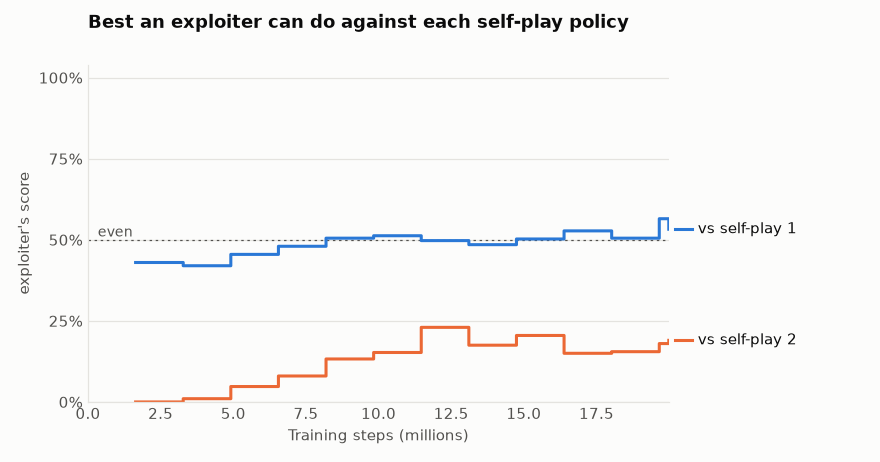
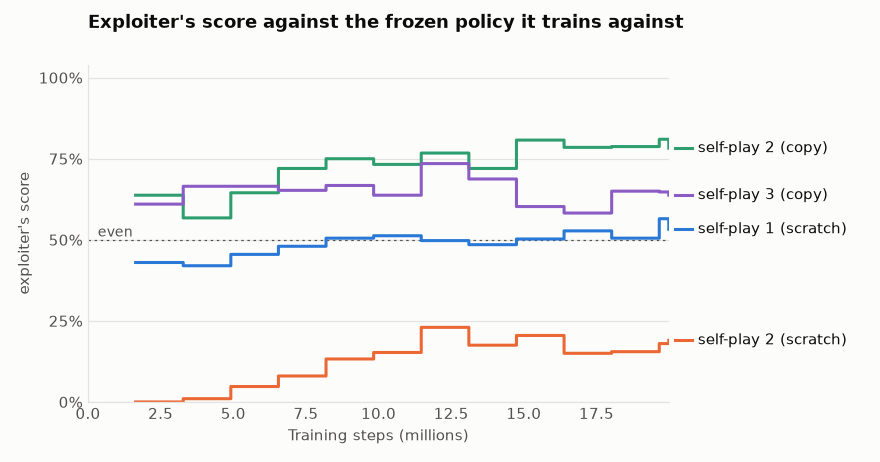
Report the second exploiter round and self-play 3

diff --git a/README.md b/README.md
@@ -134,6 +134,9 @@ gets the exploiter as an opponent, so that the weakness is trained away.
 | exploiter 1 | frozen self-play 1 only | 20M | 17 min |
 | self-play 2 | continues self-play 1 with its 123 snapshots; exploiter 1 in 20% of games, rule bot 15%, latest copy 40%, older copies 25% | 30M | 44 min |
 | exploiter 2 | frozen self-play 2 only | 20M | 16 min |
+| exploiter 3 | frozen self-play 2 only, starting from self-play 2's weights | 20M | 15 min |
+| self-play 3 | continues self-play 2 with all 215 earlier snapshots; exploiters 3 and 1 in 15% of games each, rule bot 15%, latest copy 35%, older copies 20% | 30M | 50 min |
+| exploiter 4 | frozen self-play 3 only, starting from self-play 3's weights | 20M | 15 min |
 
 Every 50 iterations the policy also plays 200 games against opponents that
 never change (the rule bot and an earlier model). The pool keeps changing, so
@@ -172,13 +175,18 @@ Elo ratings from the same league, with the rule bot pinned at 1000:
 | camper | 851 |
 | random | 458 |
 
-How far each self-play policy could be exploited (score from 200 games per
-evaluation):
+How far each self-play policy could be exploited. An exploiter trained from
+scratch spends most of its steps learning to play at all, so exploiters 3 and
+4 start from a copy of the policy they attack: they begin at about 50%, and
+anything above that is a real weakness. Final exploiters; the first two rows
+are from 200-game evaluations, the last two from 1000 games in a league:
 
-| Frozen policy | Exploiter's best score against it | At the end of training | Exploiter's score against the rule bot |
+| Frozen policy | Exploiter starts from | Exploiter's score against it | Exploiter's score against the rule bot |
 |---|---|---|---|
-| self-play 1 | 56.5% | 53.3% | 13.0% |
-| self-play 2 | 23.0% | 19.0% | 72.5% |
+| self-play 1 | scratch (exploiter 1) | 53% | 13% |
+| self-play 2 | scratch (exploiter 2) | 19% | 72.5% |
+| self-play 2 | its weights (exploiter 3) | **79%** | 99% |
+| self-play 3 | its weights (exploiter 4) | **62%** | 100% |
 
 ![Exploiter scores during training](docs/stage2_exploiters.png)
 
@@ -190,6 +198,15 @@ opponent. Self-play 2 learned to punish the trick within 1.7 million steps:
 its win rate against exploiter 1 went from 16% to 100%. Exploiter 2 found no
 such shortcut. To score at all it had to learn to fight, which made it a
 real fighter (72.5% against the rule bot), and it still never got above 23%.
+
+That looked like strong evidence, but exploiter 2 was simply too weak to
+find anything. Exploiter 3 had the same 20 million steps but started from
+self-play 2's weights, and it beat self-play 2 79% of the time. The few
+replays watched suggest how: it waits near its own spawn and shoots
+self-play 2 as it charges across the map. It was not simply a better player,
+though. Exploiter 1 scores 50% against it, and it beats the camper only 87%
+of the time, where self-play 2 manages 100% and 95%. Specialising against one
+opponent cost it what self-play 2 had learned against others, as in stage 1.
 
 ### Ablation: the exploiter, or just more training?
 
@@ -222,16 +239,49 @@ each with `rl.evaluate`), but with one run of each this could be down to
 chance in training. More seeds are needed before it can be credited to the
 exploiter. Head to head the two runs are even (53%).
 
+### A second round
+
+Self-play 3 continues self-play 2 with exploiters 3 and 1 as fixed opponents
+(see the table of runs). The test was fixed before the run: exploiter 3 at
+45% or less against self-play 3 means the weakness is gone, 55% or more means
+it is not, and anything between means it is partly fixed. Nothing else may
+get worse.
+
+| | Self-play 2 | Self-play 3 |
+|---|---|---|
+| exploiter 3 against it (league, 1000 games) | 80% | **47%** |
+| exploiter 1 against it | 0% | 0% |
+| against the rule bot (1000 games as blue) | 99.8% | 99.6% |
+| against the camper | 95.2% | 99.7% |
+| against the rusher | 80.9% | 88.0% |
+| against the kiter | 99.7% | 99.7% |
+| against the flanker | 99.3% | 100% |
+| head to head (league, 1000 games) | 41% | 59% |
+
+Exploiter 3 fell from 80% to 47%. By the rule that counts as partly fixed,
+although 47% is within noise of an even match. Nothing got worse, and the
+rusher went from 80.9% to 88.0% (as the ablation showed, the extra training
+may deserve part of that).
+
+Exploiter 4 measures self-play 3 the way exploiter 3 measured self-play 2:
+it starts from self-play 3's weights and trains for 20 million steps. It
+reached 62%, down from 79%. The rule fixed in advance was that 65% or less
+means the loop is converging, 75% or more that it is not. Like exploiter 3, it
+gave up some of the policy's breadth (exploiter 1 scores 24% against it, and
+it beats the camper 86% of the time). Two rounds are too few to call a trend,
+but the measure moved in the right direction. Self-play 3 is the strongest
+policy so far and the starting point for stage 3.
+
 ### What these numbers do not show
 
 * The test bots share the rule bot's aim, so they test different movement,
   not different players. Human play is a harder test.
 * The camper, rusher and kiter results were looked at while deciding what to
   train next, so only the flanker was truly unseen until the end.
-* An exploiter's score is a lower bound: a longer run or another method might
-  find more. Copying the target already scores 50%, so a score below 50%
-  (exploiter 2) shows that no shortcut was found, not that none exists.
-  Starting the exploiter from the target's weights would be a stricter test.
+* An exploiter's score is only a lower bound, and a weak exploiter can make a
+  policy look far safer than it is: exploiter 2, trained from scratch, scored
+  23% against self-play 2, while exploiter 3, started from its weights,
+  scored 79%. Exploiter 4's 62% is a lower bound too.
 * Every run was trained once, with one random seed, so it is unknown how much
   a second run would differ.
 * Ratings from different leagues cannot be compared. Self-play 2 rates 1505
@@ -241,20 +291,25 @@ exploiter. Head to head the two runs are even (53%).
   bot but 65% against the stage-1 policy and self-play 1. Elo squeezes this
   into one number per player, and the numbers depend on who is in the
   league.
-* The rusher is still the hardest opponent for self-play 2 (84%). Their
-  games are short (8.4 seconds on average) and self-play 2 is hit about 3
-  times per game, against 1.3 times by the rule bot.
+* The rusher is still the hardest bot. Self-play 3 beats it 88.0% of the
+  time; their games last 7.4 seconds on average and self-play 3 is hit 2.75
+  times per game, against 1.24 times by the rule bot.
 
 ```bash
 python -m rl.selfplay --name selfplay --steps 40000000 --reference runs/first/model.pt
 python -m rl.selfplay --name exploiter1 --steps 20000000 --fixed runs/selfplay/model.pt --p-fixed 1 --p-rule 0 --p-latest 0 --reference runs/selfplay/model.pt
 python -m rl.selfplay --name selfplay2 --steps 30000000 --init runs/selfplay/model.pt --seed-pool runs/selfplay/pool --fixed runs/exploiter1/model.pt --p-fixed 0.2 --p-rule 0.15 --p-latest 0.4 --reference runs/selfplay/model.pt
 python -m rl.selfplay --name exploiter2 --steps 20000000 --fixed runs/selfplay2/model.pt --p-fixed 1 --p-rule 0 --p-latest 0 --reference runs/selfplay2/model.pt
+python -m rl.selfplay --name exploiter3 --steps 20000000 --init runs/selfplay2/model.pt --fixed runs/selfplay2/model.pt --p-fixed 1 --p-rule 0 --p-latest 0 --reference runs/selfplay2/model.pt
+python -m rl.selfplay --name selfplay3 --steps 30000000 --init runs/selfplay2/model.pt --seed-pool runs/selfplay/pool runs/selfplay2/pool --fixed runs/exploiter3/model.pt runs/exploiter1/model.pt --p-fixed 0.3 --p-rule 0.15 --p-latest 0.35 --reference runs/selfplay2/model.pt
+python -m rl.selfplay --name exploiter4 --steps 20000000 --init runs/selfplay3/model.pt --fixed runs/selfplay3/model.pt --p-fixed 1 --p-rule 0 --p-latest 0 --reference runs/selfplay3/model.pt
 python -m rl.selfplay --name selfplay2_noexp --steps 30000000 --init runs/selfplay/model.pt --seed-pool runs/selfplay/pool --p-rule 0.1875 --p-latest 0.5 --reference runs/selfplay/model.pt
-python -m rl.evaluate runs/selfplay2/model.pt --opponent rule camper rusher kiter idle flanker
+python -m rl.evaluate runs/selfplay3/model.pt --opponent rule camper rusher kiter idle flanker
 python -m rl.league rule kiter rusher camper flanker random ppo:runs/first/model.pt ppo:runs/selfplay/model.pt ppo:runs/selfplay2/model.pt
 python -m rl.league rule camper rusher kiter flanker random ppo:runs/exploiter1/model.pt ppo:runs/selfplay/model.pt ppo:runs/selfplay2/model.pt ppo:runs/selfplay2_noexp/model.pt
-python -m tools.plot_logs "vs self-play 1=runs/exploiter1/log.csv:eval_reference" "vs self-play 2=runs/exploiter2/log.csv:eval_reference" --percent --mark 0.5:even
+python -m rl.league rule camper rusher kiter flanker ppo:runs/exploiter1/model.pt ppo:runs/exploiter3/model.pt ppo:runs/selfplay2/model.pt ppo:runs/selfplay3/model.pt --games 500
+python -m rl.league ppo:runs/selfplay3/model.pt ppo:runs/exploiter4/model.pt rule rusher camper ppo:runs/exploiter1/model.pt --games 500
+python -m tools.plot_logs "self-play 1 (scratch)=runs/exploiter1/log.csv:eval_reference" "self-play 2 (scratch)=runs/exploiter2/log.csv:eval_reference" "self-play 2 (copy)=runs/exploiter3/log.csv:eval_reference" "self-play 3 (copy)=runs/exploiter4/log.csv:eval_reference" --percent --mark 0.5:even
 ```
 
 In a self-play log, `win_vs_rule`, `win_vs_latest`, `win_vs_past` and
